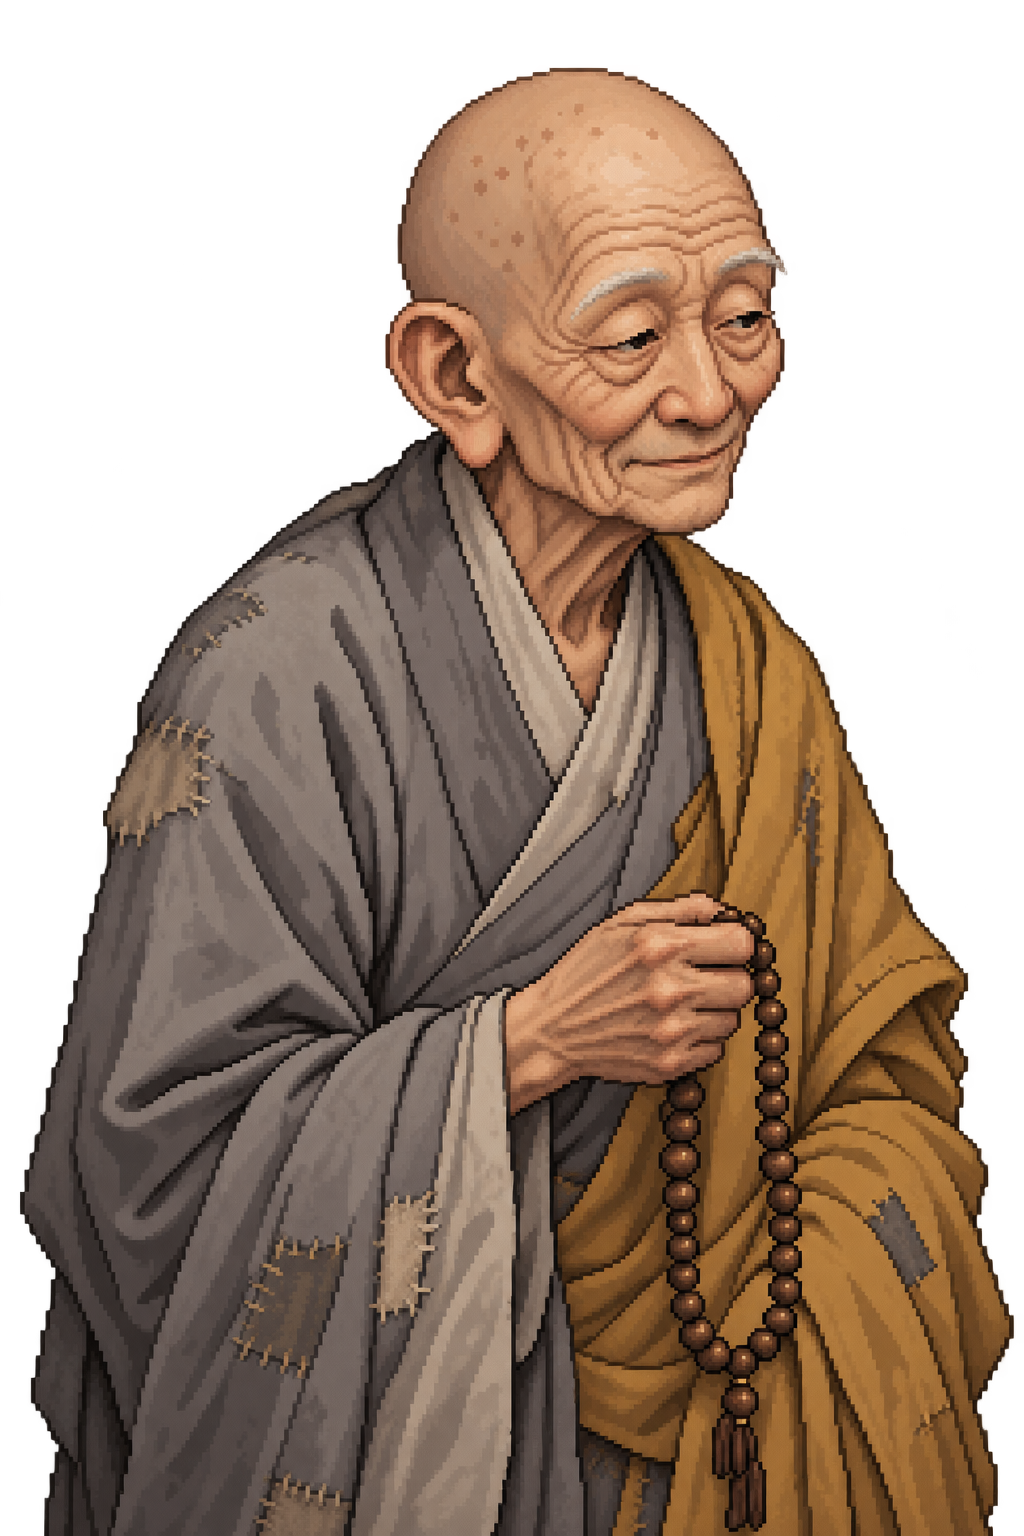
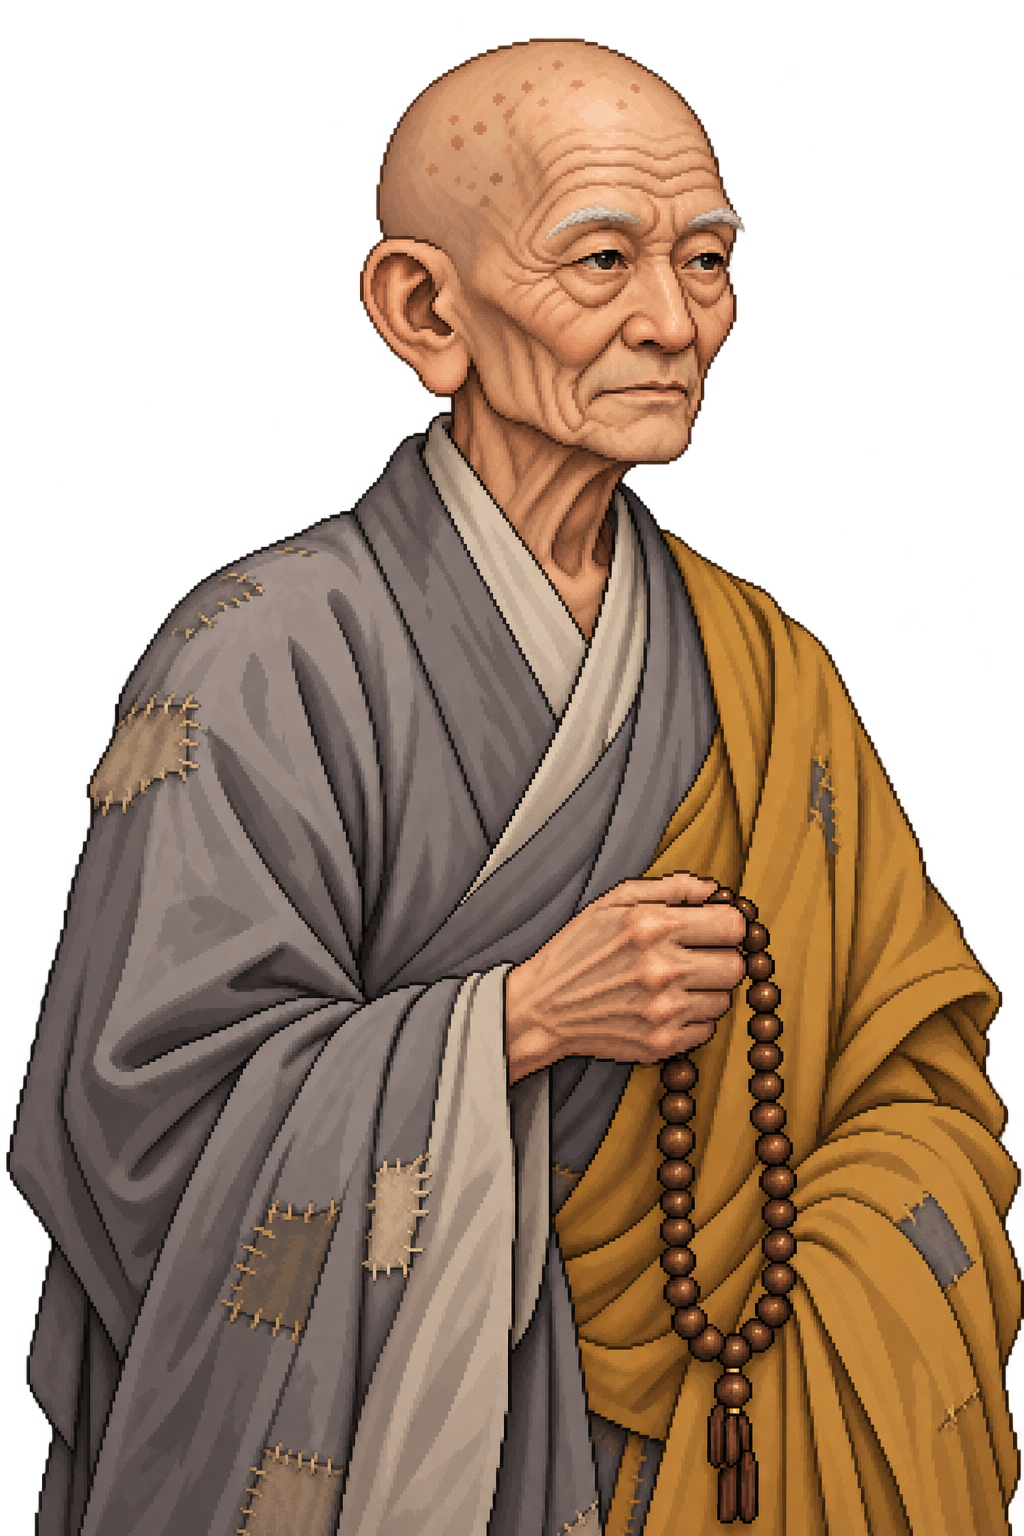
Give Hyeonjin a solemn commanding portrait

diff --git a/docs/characters/shaolin.md b/docs/characters/shaolin.md
@@ -43,7 +43,7 @@
 - 84세. 법연 이전의 방장. 현재는 일선에서 물러난 전임자이며 법연과 법엄의 스승으로 제안한다.
 - 외형: 작고 마른 체구, 높은 이마와 깊은 주름, 거의 사라진 눈썹, 처진 눈꺼풀과 작은 눈, 큰 귀, 수염 없는 얼굴. 삭발한 머리에 옅은 노년 반점. 웅장한 신선형이나 과장된 긴 흰 수염은 피한다.
 - 복장: 여러 번 기운 회색 승복에 낡고 흐린 황토색 겉옷. 소박한 염주를 쥐며 무기는 들지 않는다.
-- 무학: 나한권·금강지·역근경을 오래 수련했다. 숨은 최강자나 무조건적인 문제 해결자로 확정하지 않는다.
+- 무학: 나한권·금강지·역근경을 오래 수련했다. 정파제일인 설정을 추후 부여할 가능성은 열어두되, 현재는 확정하지 않는다. 무조건적인 문제 해결자로 설정하지 않는다.
 - 성격: 조용하고 유머가 있으며 질문으로 답하는 편이다. 자비와 규율 중 하나를 정답으로 선언하기보다 두 선택이 누구에게 어떤 대가를 요구하는지 묻는다.
 - 과거 제안: 재임 시절 문중의 질서를 우선한 결정으로 도움을 기다리던 이를 놓친 일을 기억한다. 구체적인 사건과 관계자는 미정이다.
 - 결점: 후임을 존중해 개입을 자제하다 중요한 경고까지 늦출 수 있다.
@@ -59,3 +59,7 @@
 - [법엄 초상화](../../assets/portraits/shaolin/beobeom.png)
 - [혜담 초상화](../../assets/portraits/shaolin/hyedam.png)
 - [현진 초상화](../../assets/portraits/shaolin/hyeonjin.png)
+
+## 현진 초상화 수정
+
+사용자 지정에 따라 현진의 초상화를 근엄한 인상으로 수정했다. 미소를 거두고 시선을 또렷하게 하며, 고개와 어깨를 곧게 세웠다. 노년의 마른 외형·기운 승복·염주는 유지한다. 평소 성격을 전면 변경한 것은 아니며 정파제일인 여부와 전투력은 미정이다.
